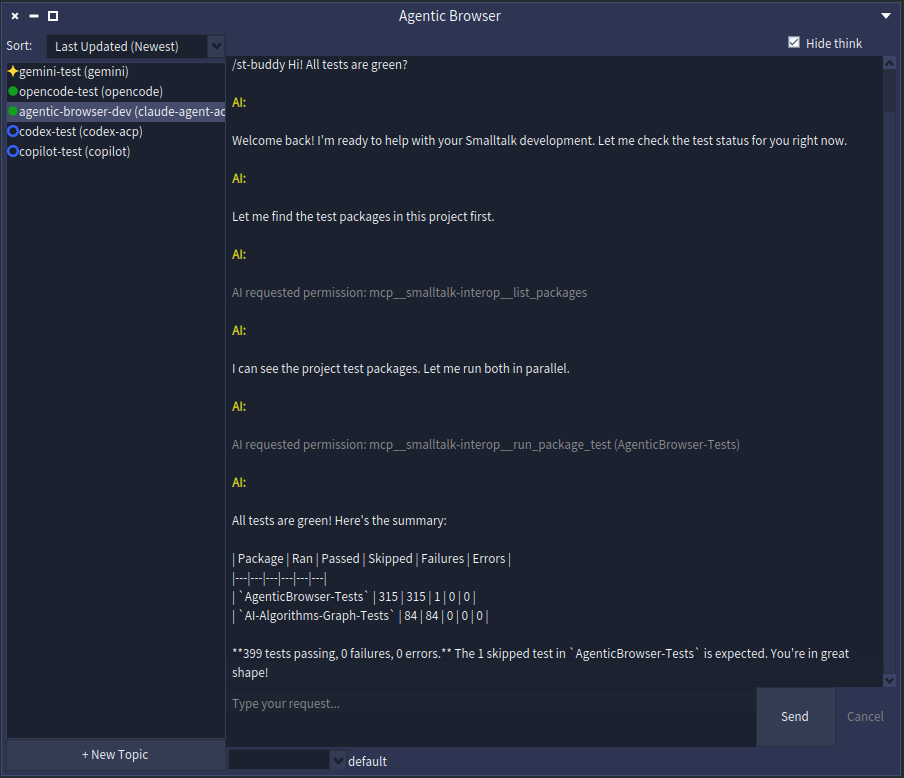
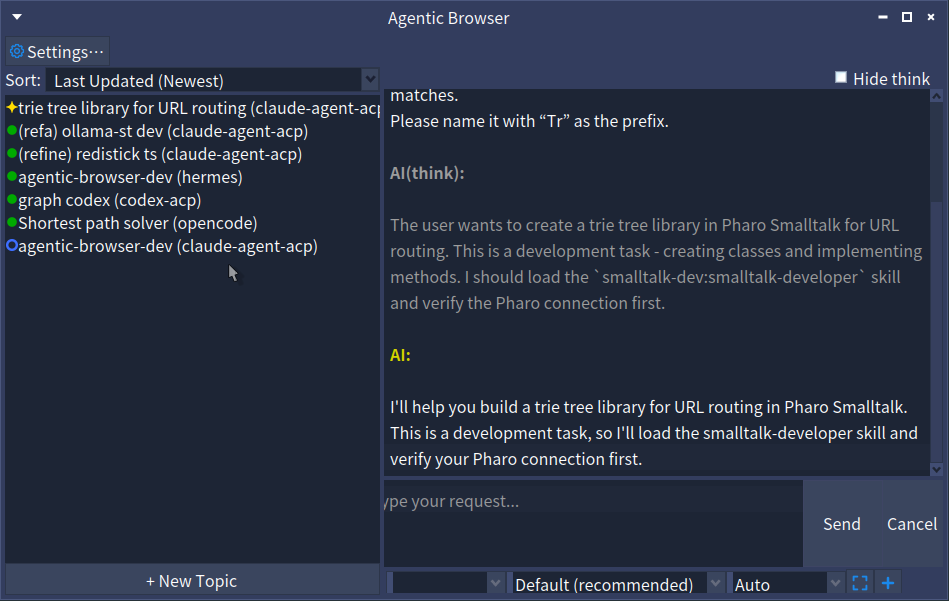
Update README with demo video, feature list, and rationale (#110)
* Update README description for clarity

* Added "Why pharo-agentic-browser?" section

* Update agentic-browser screenshot

* Update README with demo link and refine feature list

Changed region(s): [[0.0, 0.0, 1.0, 1.0], [0.2478, 0.5092, 0.2788, 0.5391]]

diff --git a/README.md b/README.md
@@ -1,10 +1,13 @@
 # pharo-agentic-browser
 
-A Pharo-native UI tool for managing multiple AI coding agent sessions — Claude Code, Gemini CLI, OpenCode, and others — in parallel from inside your Pharo image. Each session is called a **topic**: you type a request, the agent works autonomously on your code, and pauses only when it needs your approval.
+### Agentic AI Coding Workspace for Pharo
+
+**pharo-agentic-browser** brings **Pharo AI coding** to your image as a native **agentic coding environment**: a Pharo-native UI tool for managing multiple AI coding agent sessions — Claude Code, Gemini CLI, OpenCode, and others — in parallel from inside your Pharo image. It enables **AI-assisted Smalltalk development** by letting each session, called a **topic**, work as an autonomous agent on your code: you type a request, the agent works, and pauses only when it needs your approval.
 
 ## Presentation
 
 - [Introducing Pharo Agentic Browser](https://mumez.github.io/pharo-agentic-browser-slides/introducing-pharo-agentic-browser-en.html)
+- [pharo-agentic-browser in 3 minutes](https://youtu.be/rkWCDvN3j7E) — a demo of generating a URL-routing Trie class from a simple prompt, using OpenCode with the GPT-5.6 Terra model.
 
 ## Overview
 
@@ -32,6 +35,14 @@ The core workflow:
 4. When the AI needs human judgment, it pauses and asks in the chat
 5. Respond in plain text — the AI resumes
 6. Topic status is always visible in the sidebar
+
+## Why pharo-agentic-browser?
+
+- **Native to the image** — runs inside Pharo itself, with `@ClassName` code mentions and automatic tracking of package changes made by human and the agent, instead of bolting an external tool onto your workflow
+- **Mobile access** — the [Web UI](docs/web-ui.md) is a browser-based interface served over WebSocket, so you can check on and steer topics from a phone or tablet, not just a desktop Pharo image
+- **Multi-agent orchestration** — the [Scripting DSL](docs/scripting.md) coordinates multiple coding agents across sequential and parallel steps, with automatic result injection between them, instead of driving one agent session at a time
+- **Agent-agnostic** — works with any ACP-compatible agent (Claude Code, Gemini CLI, OpenCode, and others), so you aren't locked into a single vendor's CLI or IDE plugin
+- **Conversational human-in-the-loop** — approvals happen as plain-text chat replies, not modal dialogs, so you can steer a topic without breaking flow
 
 ## Features
 
